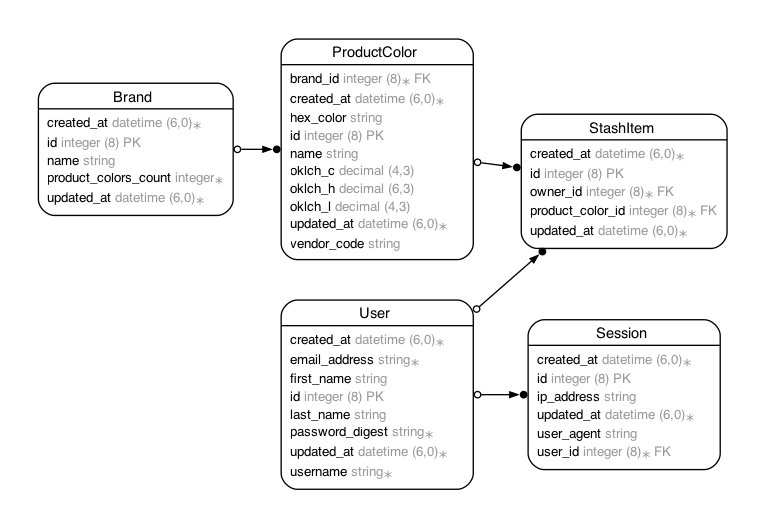
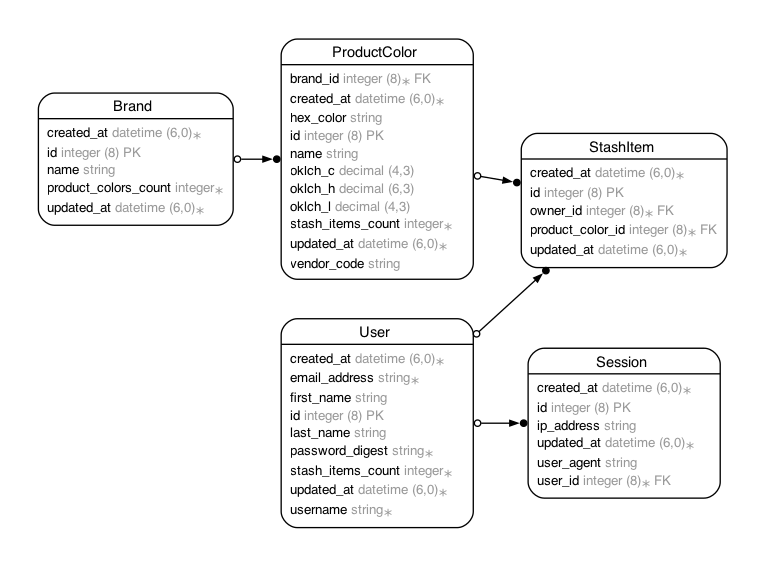
add stash item count column to user and product_color

diff --git a/db/cable_schema.rb b/db/cable_schema.rb
@@ -10,7 +10,7 @@
 #
 # It's strongly recommended that you check this file into your version control system.
 
-ActiveRecord::Schema[8.0].define(version: 2025_11_19_015607) do
+ActiveRecord::Schema[8.0].define(version: 2025_11_19_020145) do
   # These are extensions that must be enabled in order to support this database
   enable_extension "pg_catalog.plpgsql"
 
@@ -31,6 +31,7 @@ ActiveRecord::Schema[8.0].define(version: 2025_11_19_015607) do
     t.decimal "oklch_l", precision: 4, scale: 3
     t.decimal "oklch_c", precision: 4, scale: 3
     t.decimal "oklch_h", precision: 6, scale: 3
+    t.integer "stash_items_count", default: 0, null: false
     t.index ["brand_id"], name: "index_product_colors_on_brand_id"
     t.index ["oklch_c"], name: "index_product_colors_on_oklch_c"
     t.index ["oklch_h"], name: "index_product_colors_on_oklch_h"
@@ -204,6 +205,7 @@ ActiveRecord::Schema[8.0].define(version: 2025_11_19_015607) do
     t.string "username", null: false
     t.string "first_name"
     t.string "last_name"
+    t.integer "stash_items_count", default: 0, null: false
     t.index ["email_address"], name: "index_users_on_email_address", unique: true
     t.index ["username"], name: "index_users_on_username", unique: true
   end

diff --git a/db/cache_schema.rb b/db/cache_schema.rb
@@ -10,7 +10,7 @@
 #
 # It's strongly recommended that you check this file into your version control system.
 
-ActiveRecord::Schema[8.0].define(version: 2025_11_19_015607) do
+ActiveRecord::Schema[8.0].define(version: 2025_11_19_020145) do
   # These are extensions that must be enabled in order to support this database
   enable_extension "pg_catalog.plpgsql"
 
@@ -31,6 +31,7 @@ ActiveRecord::Schema[8.0].define(version: 2025_11_19_015607) do
     t.decimal "oklch_l", precision: 4, scale: 3
     t.decimal "oklch_c", precision: 4, scale: 3
     t.decimal "oklch_h", precision: 6, scale: 3
+    t.integer "stash_items_count", default: 0, null: false
     t.index ["brand_id"], name: "index_product_colors_on_brand_id"
     t.index ["oklch_c"], name: "index_product_colors_on_oklch_c"
     t.index ["oklch_h"], name: "index_product_colors_on_oklch_h"
@@ -204,6 +205,7 @@ ActiveRecord::Schema[8.0].define(version: 2025_11_19_015607) do
     t.string "username", null: false
     t.string "first_name"
     t.string "last_name"
+    t.integer "stash_items_count", default: 0, null: false
     t.index ["email_address"], name: "index_users_on_email_address", unique: true
     t.index ["username"], name: "index_users_on_username", unique: true
   end

diff --git a/db/queue_schema.rb b/db/queue_schema.rb
@@ -10,7 +10,7 @@
 #
 # It's strongly recommended that you check this file into your version control system.
 
-ActiveRecord::Schema[8.0].define(version: 2025_11_19_015607) do
+ActiveRecord::Schema[8.0].define(version: 2025_11_19_020145) do
   # These are extensions that must be enabled in order to support this database
   enable_extension "pg_catalog.plpgsql"
 
@@ -31,6 +31,7 @@ ActiveRecord::Schema[8.0].define(version: 2025_11_19_015607) do
     t.decimal "oklch_l", precision: 4, scale: 3
     t.decimal "oklch_c", precision: 4, scale: 3
     t.decimal "oklch_h", precision: 6, scale: 3
+    t.integer "stash_items_count", default: 0, null: false
     t.index ["brand_id"], name: "index_product_colors_on_brand_id"
     t.index ["oklch_c"], name: "index_product_colors_on_oklch_c"
     t.index ["oklch_h"], name: "index_product_colors_on_oklch_h"
@@ -204,6 +205,7 @@ ActiveRecord::Schema[8.0].define(version: 2025_11_19_015607) do
     t.string "username", null: false
     t.string "first_name"
     t.string "last_name"
+    t.integer "stash_items_count", default: 0, null: false
     t.index ["email_address"], name: "index_users_on_email_address", unique: true
     t.index ["username"], name: "index_users_on_username", unique: true
   end

diff --git a/db/schema.rb b/db/schema.rb
@@ -10,7 +10,7 @@
 #
 # It's strongly recommended that you check this file into your version control system.
 
-ActiveRecord::Schema[8.0].define(version: 2025_11_19_015607) do
+ActiveRecord::Schema[8.0].define(version: 2025_11_19_020145) do
   # These are extensions that must be enabled in order to support this database
   enable_extension "pg_catalog.plpgsql"
 
@@ -31,6 +31,7 @@ ActiveRecord::Schema[8.0].define(version: 2025_11_19_015607) do
     t.decimal "oklch_l", precision: 4, scale: 3
     t.decimal "oklch_c", precision: 4, scale: 3
     t.decimal "oklch_h", precision: 6, scale: 3
+    t.integer "stash_items_count", default: 0, null: false
     t.index ["brand_id"], name: "index_product_colors_on_brand_id"
     t.index ["oklch_c"], name: "index_product_colors_on_oklch_c"
     t.index ["oklch_h"], name: "index_product_colors_on_oklch_h"
@@ -204,6 +205,7 @@ ActiveRecord::Schema[8.0].define(version: 2025_11_19_015607) do
     t.string "username", null: false
     t.string "first_name"
     t.string "last_name"
+    t.integer "stash_items_count", default: 0, null: false
     t.index ["email_address"], name: "index_users_on_email_address", unique: true
     t.index ["username"], name: "index_users_on_username", unique: true
   end

diff --git a/app/models/product_color.rb b/app/models/product_color.rb
@@ -2,16 +2,17 @@
 #
 # Table name: product_colors
 #
-#  id          :bigint           not null, primary key
-#  hex_color   :string
-#  name        :string
-#  oklch_c     :decimal(4, 3)
-#  oklch_h     :decimal(6, 3)
-#  oklch_l     :decimal(4, 3)
-#  vendor_code :string
-#  created_at  :datetime         not null
-#  updated_at  :datetime         not null
-#  brand_id    :bigint           not null
+#  id                :bigint           not null, primary key
+#  hex_color         :string
+#  name              :string
+#  oklch_c           :decimal(4, 3)
+#  oklch_h           :decimal(6, 3)
+#  oklch_l           :decimal(4, 3)
+#  stash_items_count :integer          default(0), not null
+#  vendor_code       :string
+#  created_at        :datetime         not null
+#  updated_at        :datetime         not null
+#  brand_id          :bigint           not null
 #
 # Indexes
 #

diff --git a/app/models/user.rb b/app/models/user.rb
@@ -2,14 +2,15 @@
 #
 # Table name: users
 #
-#  id              :bigint           not null, primary key
-#  email_address   :string           not null
-#  first_name      :string
-#  last_name       :string
-#  password_digest :string           not null
-#  username        :string           not null
-#  created_at      :datetime         not null
-#  updated_at      :datetime         not null
+#  id                :bigint           not null, primary key
+#  email_address     :string           not null
+#  first_name        :string
+#  last_name         :string
+#  password_digest   :string           not null
+#  stash_items_count :integer          default(0), not null
+#  username          :string           not null
+#  created_at        :datetime         not null
+#  updated_at        :datetime         not null
 #
 # Indexes
 #

diff --git a/db/migrate/20251119020145_add_stash_items_count_to_product_colors.rb b/db/migrate/20251119020145_add_stash_items_count_to_product_colors.rb
@@ -1,0 +1,5 @@
+class AddStashItemsCountToProductColors < ActiveRecord::Migration[8.0]
+  def change
+    add_column :product_colors, :stash_items_count, :integer, default: 0, null: false
+  end
+end

diff --git a/db/migrate/20251119020103_add_stash_items_count_to_users.rb b/db/migrate/20251119020103_add_stash_items_count_to_users.rb
@@ -1,0 +1,5 @@
+class AddStashItemsCountToUsers < ActiveRecord::Migration[8.0]
+  def change
+    add_column :users, :stash_items_count, :integer, default: 0, null: false
+  end
+end
